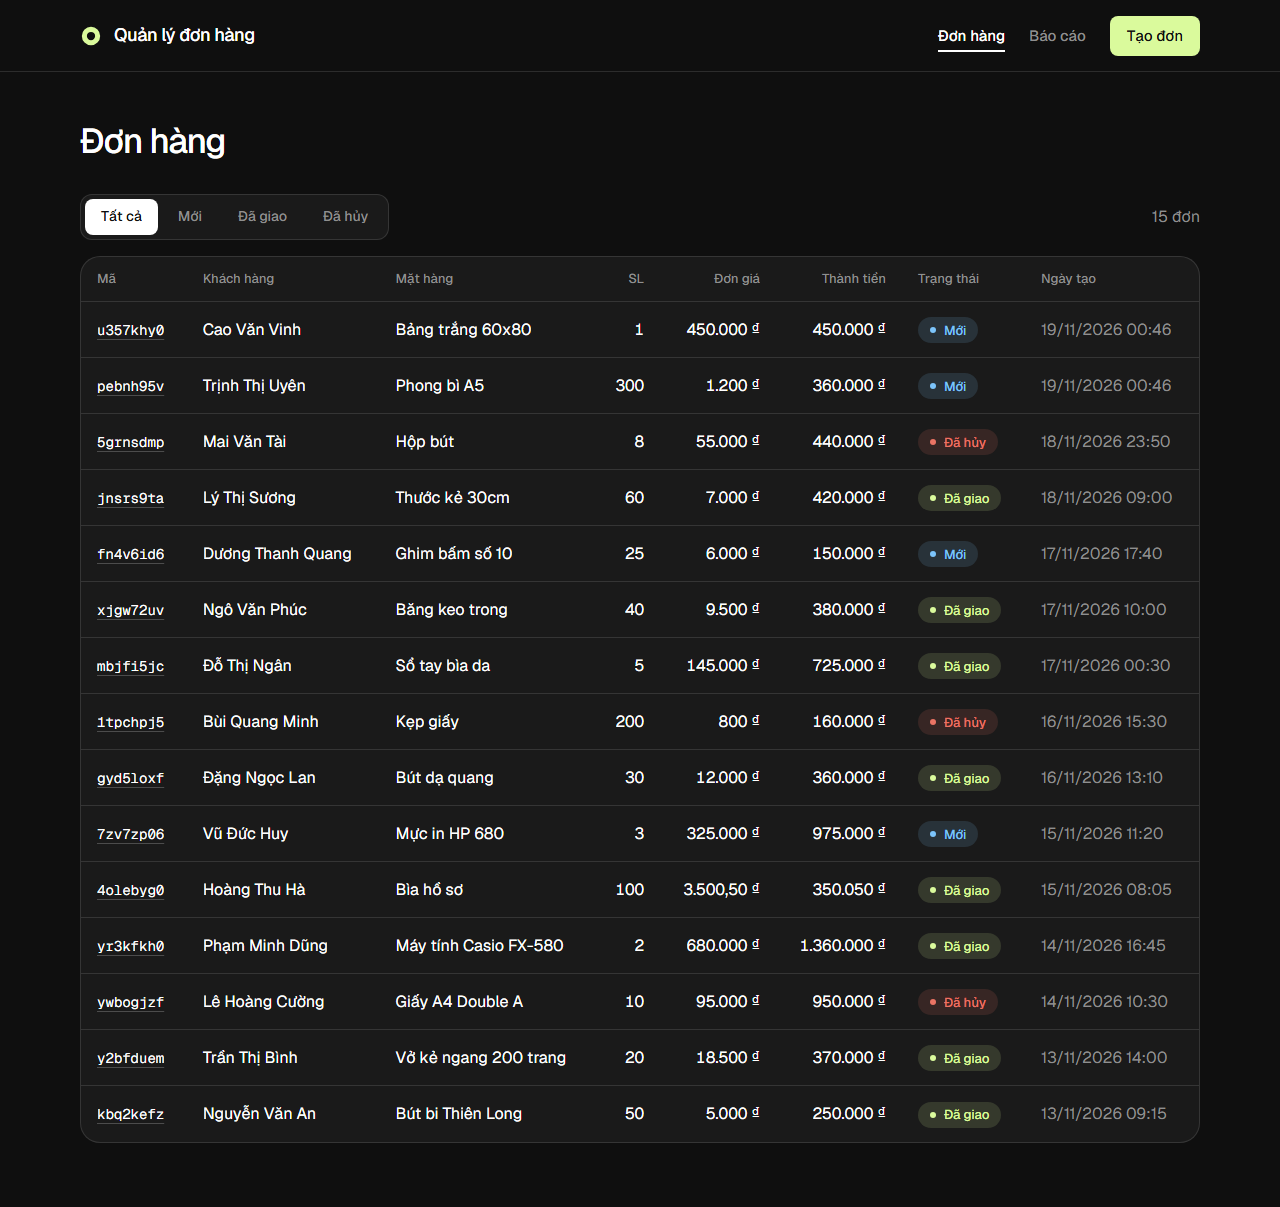
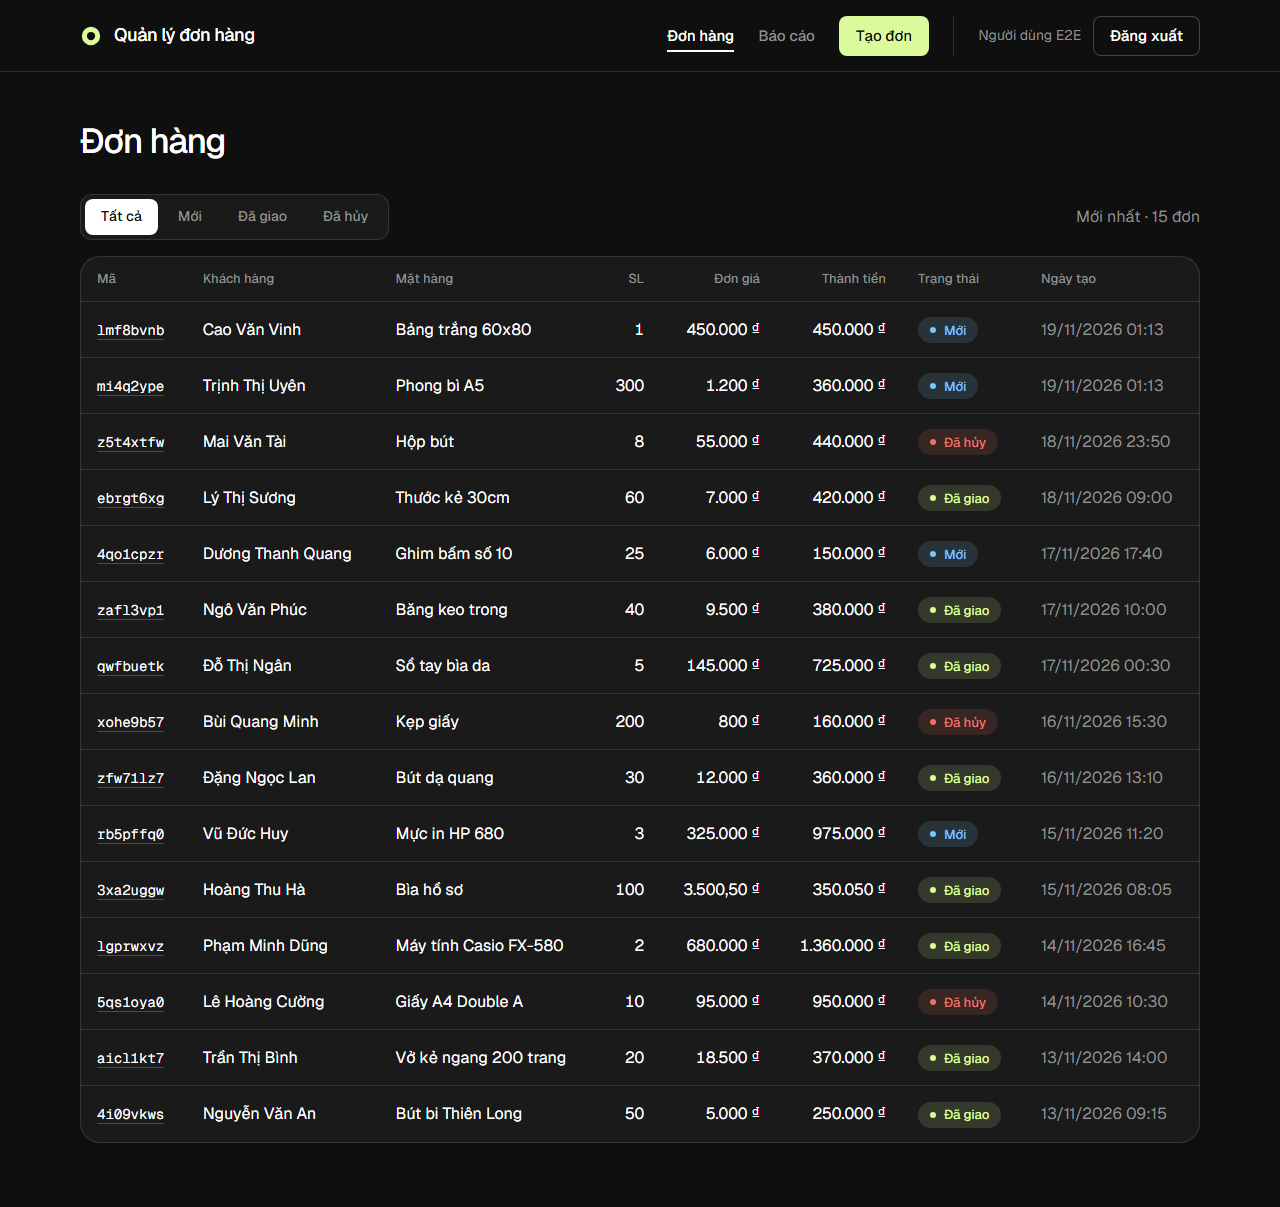
docs(phase-9): README, CLAUDE.md, PLAN phase 9 và ảnh chụp (thêm trang đăng nhập)

diff --git a/docs/CLAUDE.md b/docs/CLAUDE.md
@@ -30,30 +30,40 @@ App nhỏ quản lý đơn hàng cho bài test tại nhà (hạn 48h). Người 
 ## Cấu trúc thư mục
 
 ```
+proxy.ts                  # request id + chuyển hướng lạc quan sang /login (KHÔNG phải kiểm tra quyền)
+instrumentation.ts        # kiểm tra env lúc khởi động; log lỗi có cấu trúc (onRequestError)
 app/
-  orders/                 # trang danh sách, tạo, chi tiết
-  reports/revenue/        # trang báo cáo
+  login/                  # trang đăng nhập + login/logout Server Action (ngoài app chrome)
+  (app)/                  # route group: layout có header/nav/menu người dùng (URL không đổi)
+    orders/               # trang danh sách, tạo, chi tiết (+ lịch sử)
+    reports/revenue/      # trang báo cáo
   api/orders/...          # route handlers (mỏng)
   api/reports/revenue/
+  api/auth/login|logout/
+  api/health/
 lib/
-  db.ts                   # PrismaClient singleton
+  db.ts                   # PrismaClient singleton + isDatabaseReachable()
+  env.ts                  # Zod cho biến môi trường
+  log.ts                  # log JSON một dòng, request id
   time.ts                 # helper timezone VN (tự viết)
   http.ts                 # map lỗi domain -> HTTP response
+  auth/                   # password (scrypt), sessions, users, requireUser/requireApiUser
   orders/
-    errors.ts             # DomainError, NotFoundError, ConflictError, InvalidTransitionError
-    schema.ts             # Zod schema input
+    errors.ts             # DomainError, NotFoundError, ConflictError, InvalidTransitionError, OrderLockedError
+    schema.ts             # Zod schema input (+ version, cursor, idempotency key)
     transitions.ts        # bảng TRANSITIONS + canTransition()
-    service.ts            # TOÀN BỘ nghiệp vụ đơn hàng
+    service.ts            # TOÀN BỘ nghiệp vụ đơn hàng (kèm ghi lịch sử)
   reports/
     revenue.ts            # query báo cáo
 prisma/
   schema.prisma
   migrations/
-  seed.ts
+  seed.ts, seed-guard.ts
+scripts/create-user.ts
 tests/
   unit/
   integration/
-  e2e/                    # Phase 7
+  e2e/
 docs/screenshots/
 ```
 
@@ -62,16 +72,21 @@ docs/screenshots/
 - **Mọi thao tác ghi DB đi qua `lib/orders/service.ts`.** Route handler và Server Action chỉ: parse input → gọi service → trả kết quả / map lỗi. Không gọi `prisma.order.*` ở ngoài service/report.
 - **Không tin client:** các field `amount`, `status`, `createdAt`, `id` do client gửi lên khi tạo/sửa đều bị bỏ qua (Zod strip). Server luôn tự tính `amount` và tự đặt `status = NEW` khi tạo.
 - **Tiền:** dùng `Prisma.Decimal` cho mọi phép tính; không dùng `number` cho tiền. Trong JSON trả về, tiền là **string** (vd `"150000.00"`). Đơn giá nhận vào phải được chuyển sang Decimal từ **string** để tránh lỗi float.
-- **Sửa đơn / đổi trạng thái** dùng **update có điều kiện** (`updateMany({ where: { id, status: <trạng thái mong đợi> } })`). Nếu `count === 0` → đọc lại để phân biệt `NotFoundError` và `ConflictError`. Không dùng kiểu "đọc rồi ghi" không điều kiện.
+- **Sửa / đổi trạng thái / xóa** chạy trong `prisma.$transaction`: đọc đơn (chưa xóa mềm) → `NotFoundError` / `OrderLockedError` / `ConflictError` (version client gửi khác version hiện tại) → **update có điều kiện** `updateMany({ where: { id, status, version, deletedAt: null } })` tăng `version` → `count === 0` thì `ConflictError` → ghi `order_events` trong cùng transaction. Không dùng kiểu "đọc rồi ghi" không điều kiện. `PATCH` bắt buộc có `version`; đổi trạng thái/xóa thì tùy chọn.
+- **Xóa là xóa mềm** (`deletedAt`). Mọi truy vấn đọc phải lọc `deletedAt: null` (hằng `ACTIVE` trong service; `deleted_at IS NULL` trong SQL báo cáo).
+- **Lịch sử (`order_events`) chỉ ghi thêm** (trigger chặn UPDATE/DELETE). Mỗi thay đổi đơn phải ghi đúng một event với `actorId`. Reset dữ liệu chỉ bằng `TRUNCATE` (test, seed).
+- **Xác thực:** mọi route API nghiệp vụ gọi `requireApiUser(request)` đầu tiên; mọi Server Action và component đọc dữ liệu gọi `requireUser()`. `proxy.ts` chỉ chuyển hướng cho UX, không được coi là lớp phân quyền. Service ghi nhận `actor` làm tham số đầu.
 - **Chuyển trạng thái** chỉ được kiểm tra qua bảng `TRANSITIONS` trong `transitions.ts` (dữ liệu, không phải chuỗi if/else).
 - **Timezone:** DB lưu UTC (`timestamptz`). "Ngày nghiệp vụ" = Asia/Ho_Chi_Minh (UTC+7, không có DST). Mọi chuyển đổi ngày nằm trong `lib/time.ts`.
 - **Lỗi:** service ném lỗi domain; `lib/http.ts` map duy nhất một chỗ:
   - `ZodError` → 400 (kèm lỗi theo field)
+  - `UnauthorizedError` → 401
   - `NotFoundError` → 404
   - `ConflictError` → 409
   - `InvalidTransitionError` / `OrderLockedError` → 422
-  - lỗi khác → 500 (không lộ stack trace)
-- **DB là lớp phòng thủ thứ hai:** có CHECK constraint `quantity > 0`, `unit_price > 0`.
+  - lỗi khác → 500 (không lộ stack trace; log JSON qua `lib/log.ts`, trả `requestId`)
+- **DB là lớp phòng thủ thứ hai:** có CHECK constraint `quantity > 0`, `unit_price > 0`, `version > 0`.
+- **Seed** chỉ chạy trên DB đuôi `_dev`/`_test`/`_e2e` (`prisma/seed-guard.ts`); mọi script phá dữ liệu phải có guard tương tự.
 - **SQL thô** chỉ dùng tagged template `prisma.$queryRaw\`...\`` (tự tham số hóa). Cấm `$queryRawUnsafe`.
 - Tên biến/hàm/file: tiếng Anh. Thông báo lỗi hiển thị cho người dùng và nhãn UI: tiếng Việt.
 - Cột DB dạng `snake_case` qua `@map`/`@@map`; model Prisma dạng `camelCase`.
@@ -80,8 +95,9 @@ docs/screenshots/
 
 | Lệnh | Việc |
 |---|---|
-| `npm run db:up` | `docker compose up -d` (Postgres dev + test) |
-| `npm run db:setup` | migrate + seed DB dev |
+| `npm run db:up` | `docker compose up -d` (Postgres: orders_dev, orders_test, orders_e2e) |
+| `npm run db:setup` | migrate + seed DB dev (user `admin` / `admin1234`) |
+| `npm run user:create` | tạo/đặt lại mật khẩu user (`NEW_USER_PASSWORD=… npm run user:create -- <username> "<tên>"`) |
 | `npm run dev` | chạy app |
 | `npm run test:unit` | Vitest unit |
 | `npm run test:int` | Vitest integration (dùng DB test) |
@@ -89,7 +105,7 @@ docs/screenshots/
 | `npm run typecheck` | `tsc --noEmit` |
 | `npm run lint` | ESLint |
 | `npm run check` | typecheck + lint + test — **phải xanh trước khi kết thúc mỗi phase** |
-| `npm run e2e` | Playwright (Phase 7) |
+| `npm run e2e` | Playwright trên DB `orders_e2e` (cần `E2E_DATABASE_URL`) |
 
 ## Quy trình làm việc
 

diff --git a/docs/PLAN.md b/docs/PLAN.md
@@ -257,3 +257,34 @@ Không dùng UI library; một file `app/globals.css` nhỏ (bảng, form, badge
 - [x] *[phát sinh khi làm]* `npm audit`: 3 lỗi "high" ở `deepmerge-ts` (phụ thuộc của CLI `prisma` 6.x, chỉ dùng khi đọc config cục bộ). Bản sửa yêu cầu Prisma 7 — trái ghi chú TL #1 → **giữ nguyên, chờ người dùng quyết định**.
 
 **Tiêu chí xong:** người khác chỉ đọc README là chạy được.
+
+---
+
+## Phase 9 — Hardening sau review của tech lead (2026-11-19)
+
+Ngoài đề gốc: người dùng **yêu cầu rõ** làm toàn bộ mục P1 + P2 trong review. Làm trên nhánh `phase-9-hardening`.
+
+**P1 — lỗi thật / rủi ro mất dữ liệu**
+
+- [x] Optimistic locking: cột `version`; `PATCH` bắt buộc `version`, status/xóa tùy chọn; ghi trong transaction + update có điều kiện `(id, status, version)` → 409. Test đồng thời cho sửa–sửa.
+- [x] Seed guard: chỉ chạy trên DB đuôi `_dev`/`_test`/`_e2e` hoặc `ALLOW_SEED=1` (`prisma/seed-guard.ts`, có unit test).
+- [x] CI: thêm `npm run build`, job e2e Playwright riêng (upload `test-results/` khi fail), `concurrency` hủy run cũ.
+- [x] Commit riêng phần UI đang treo (`feat(ui)`), sửa indent `order-actions.tsx`, e2e xanh trước khi commit. Ghi chú: `globals.css` không còn "nhỏ" như Phase 6 (~1000 dòng, một hệ token) — chấp nhận vì không thêm framework/dependency.
+- [x] `npm audit`: chấp nhận rủi ro có thời hạn (README "Rủi ro đã chấp nhận", `.github/audit-allowlist.txt`); CI chặn mọi advisory high/critical khác (`.github/scripts/audit.mjs`).
+
+**P2 — trước khi dùng thật**
+
+- [x] Audit trail `order_events` (CREATED/UPDATED/STATUS_CHANGED/DELETED, actor, diff from→to), ghi cùng transaction; trigger Postgres chặn UPDATE/DELETE; hiển thị "Lịch sử thay đổi" ở trang chi tiết + `GET /api/orders/:id/history`.
+- [x] Xóa mềm (`deleted_at`): mọi truy vấn đọc lọc bỏ; báo cáo cũng lọc.
+- [x] `Idempotency-Key` cho `POST /api/orders` (cột UNIQUE, xử lý race bằng P2002); form tạo đơn tự gửi key theo từng lần mount.
+- [x] Phân trang keyset `(created_at, id)`; API trả `{ items, nextCursor }` (**đổi shape** so với Phase 5 — ghi trong README); UI có "Trang sau / Trang đầu".
+- [x] Đăng nhập không thêm dependency: `scrypt` + phiên DB (lưu SHA-256 token), cookie HttpOnly/SameSite=Lax, Bearer cho API; `proxy.ts` chuyển hướng lạc quan, `requireUser`/`requireApiUser` ở mọi chỗ đọc/ghi. Trang `/login`, đăng xuất, `npm run user:create`. Route group `app/(app)` để `/login` không có nav. *Một vai trò* — phân quyền theo vai trò cần quy tắc nghiệp vụ, chưa làm.
+- [x] Observability: `lib/log.ts` (JSON một dòng), `x-request-id` qua `proxy.ts`, `requestId` trong lỗi 500, `onRequestError` trong `instrumentation.ts`, `error.digest` trên trang lỗi, `/api/health` (503 khi mất DB).
+- [x] Kiểm tra env khi khởi động (`lib/env.ts` gọi từ `instrumentation.register`) — đã thử: `DATABASE_URL` sai thì server dừng với thông báo rõ.
+- [x] Tách DB e2e `orders_e2e` (`E2E_DATABASE_URL`); `migrate deploy` tự tạo DB nên volume Docker cũ không cần reset.
+
+- [x] *[phát sinh khi làm]* Next.js render sẵn một `role="alert"` rỗng (route announcer) → e2e dùng `p.alert` thay cho `getByRole("alert")`.
+- [x] *[phát sinh khi làm]* Form tạo đơn bọc action phía client để gắn idempotency key → form tạo đơn cần JavaScript (không còn progressive enhancement cho riêng form này).
+- [x] *[ghi chú quy trình]* Phase này viết code service trước rồi test ngay sau (không đi đúng "đỏ trước" của quy trình TDD); mọi hành vi mới đều có test.
+
+**Tiêu chí xong:** `npm run check` xanh (chạy 3 lần), `npm run e2e` xanh, ảnh chụp cập nhật, README/CLAUDE.md khớp code.
